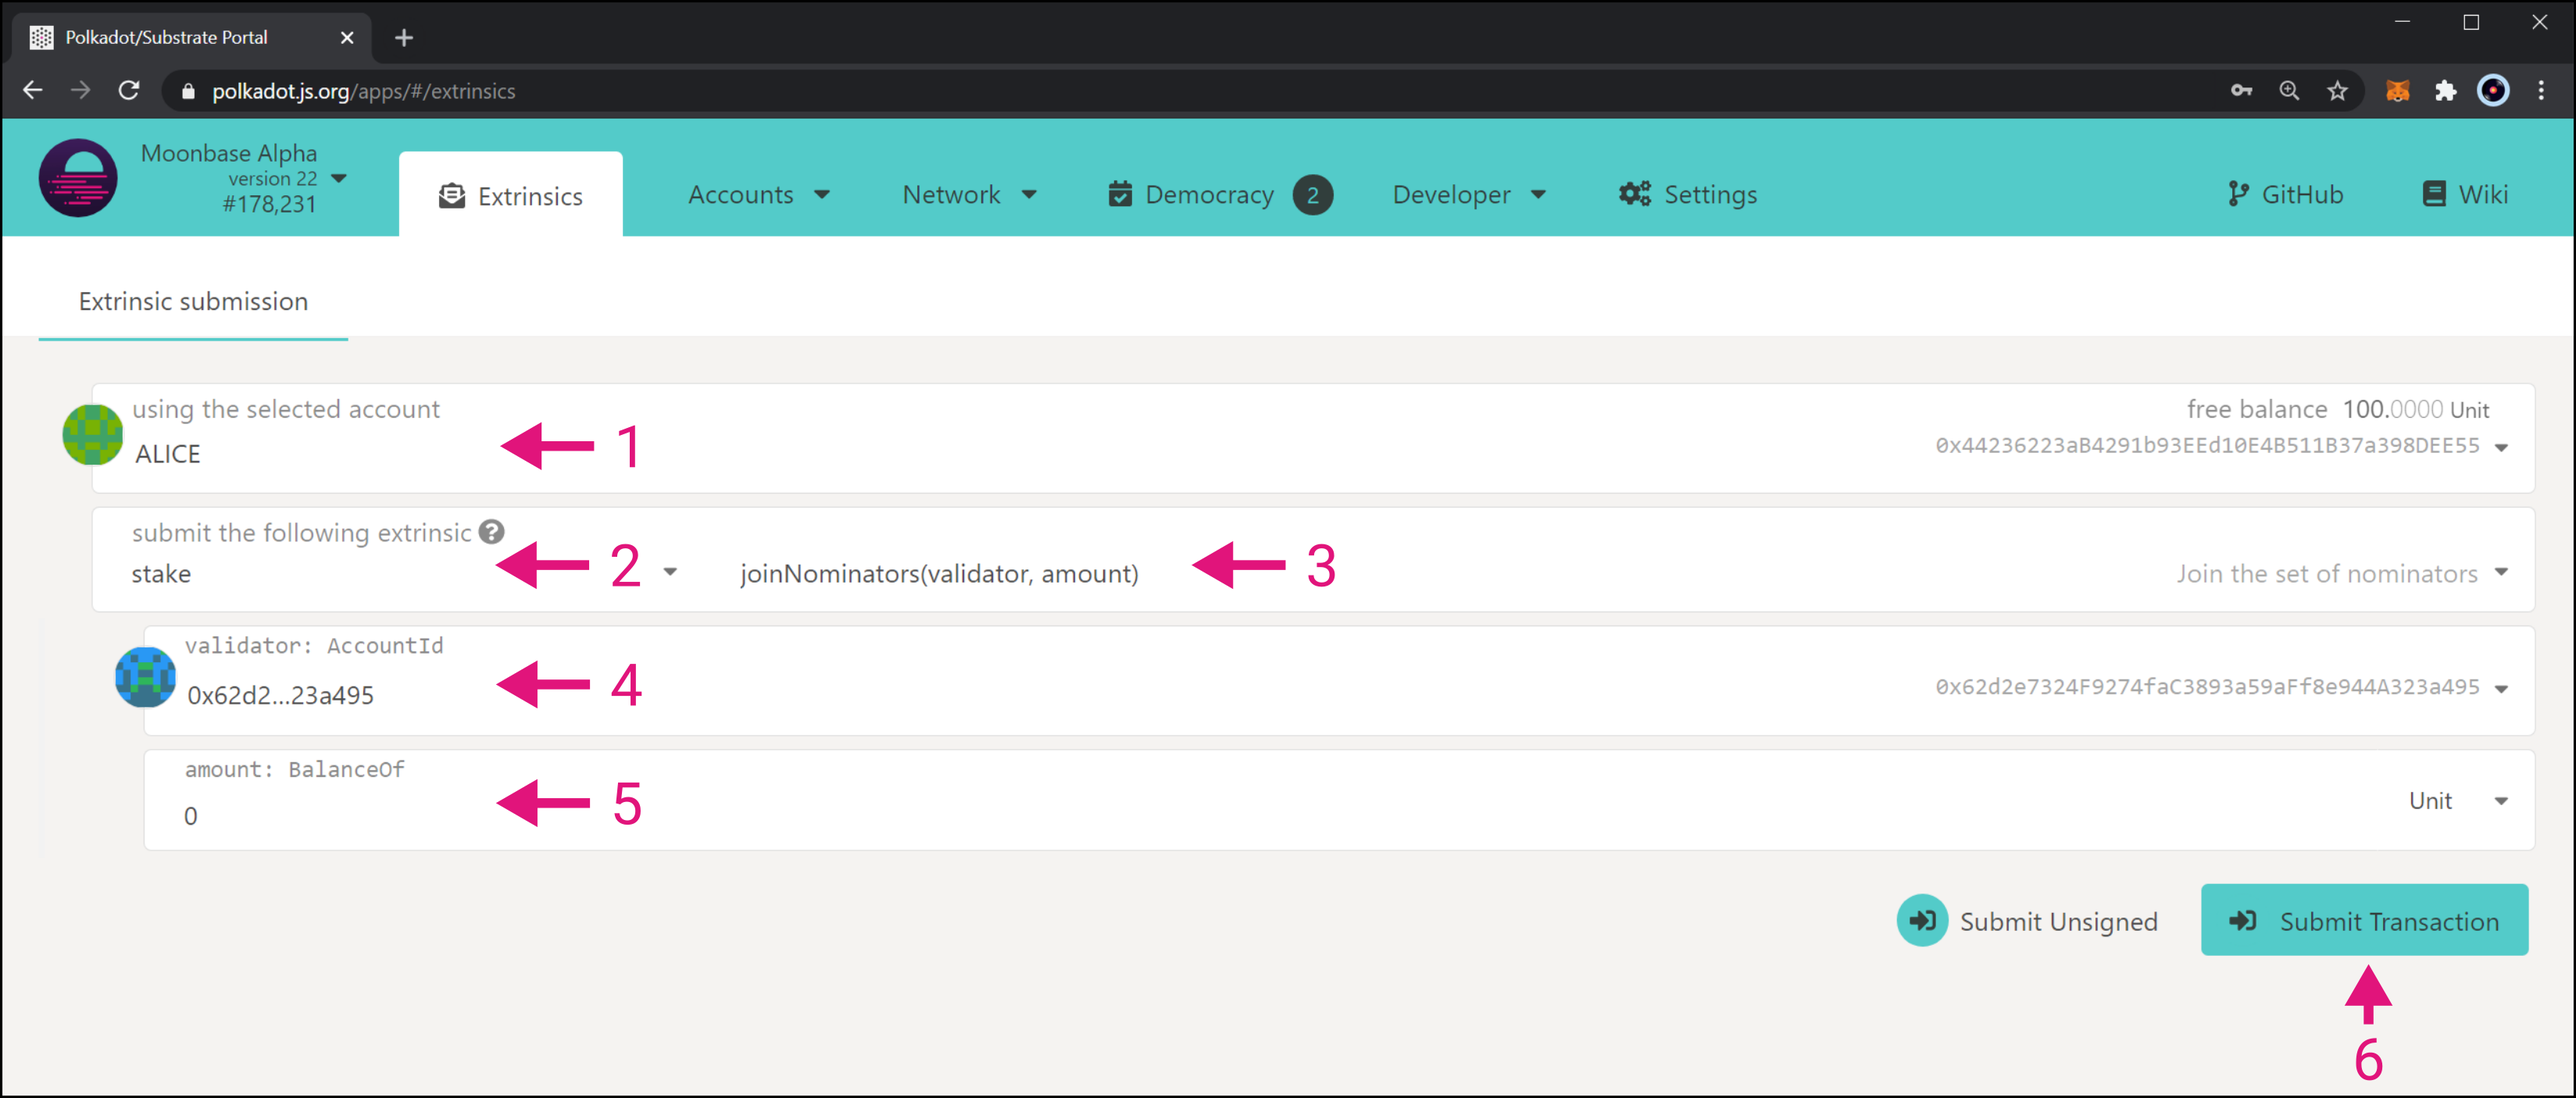
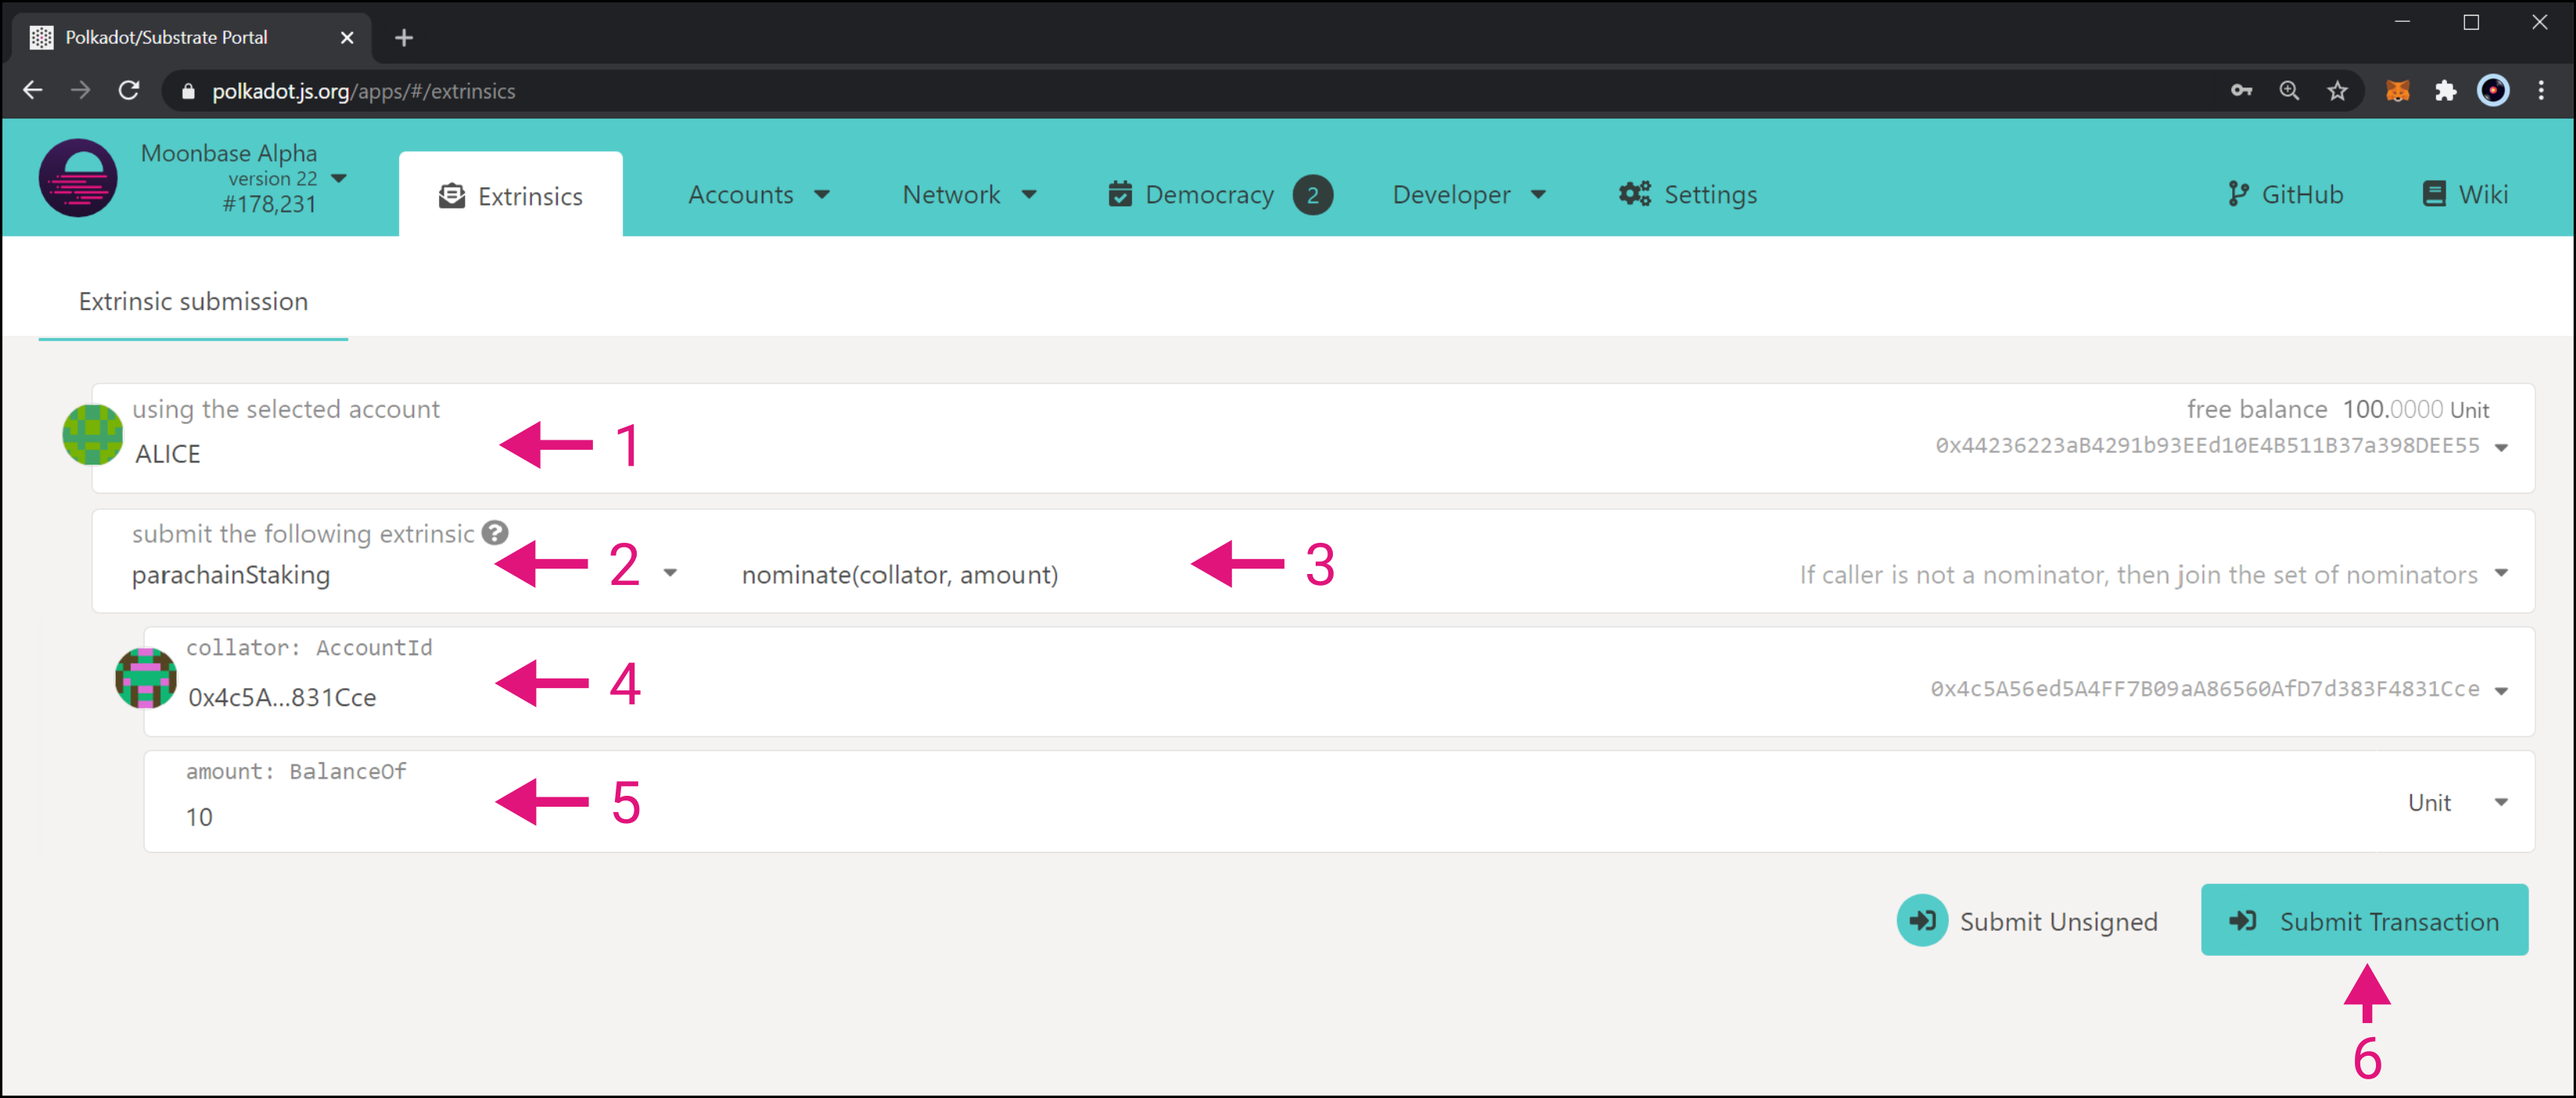
v7 first commit

diff --git a/staking/stake.md b/staking/stake.md
@@ -23,14 +23,13 @@ With the release of [Moonbase Alpha v6](https://github.com/PureStake/moonbeam/re
 
 Currently, for Moonbase Alpha:
 
-|             Variable             |     |                                                  Value                                                  |
-| :------------------------------: | :-: | :-----------------------------------------------------------------------------------------------------: |
-|     Minimum nomination stake     |     |                          {{ networks.moonbase.staking.min_nom_stake }} tokens                           |
-|        Minimum nomination        |     |                          {{ networks.moonbase.staking.min_nom_amount}} tokens                           |
-| Maximum nominators per collators |     |                             {{ networks.moonbase.staking.max_nom_per_col }}                             |
-| Maximum collators per nominator  |     |                             {{ networks.moonbase.staking.max_col_per_nom }}                             |
+|             Variable             |     |                         Value                         |
+| :------------------------------: | :-: | :---------------------------------------------------: |
+|     Minimum nomination stake     |     |     {{ networks.moonbase.staking.min_nom_stake }}     |
+|        Minimum nomination        |     |     {{ networks.moonbase.staking.min_nom_amount}}     | | Maximum nominators per collators |     |     {{ networks.moonbase.staking.max_nom_per_col }}   |
+| Maximum collators per nominator  |     |     {{ networks.moonbase.staking.max_col_per_nom }}   |
 |              Round               |     | {{ networks.moonbase.staking.round_blocks }} blocks ({{ networks.moonbase.staking.round_hours }} hours) |
-|          Bond duration           |     |                            {{ networks.moonbase.staking.bond_lock }} rounds                             |
+|          Bond duration           |     |     {{ networks.moonbase.staking.bond_lock }} rounds  |
 
 ## Extrinsics Definitions
 
@@ -39,13 +38,11 @@ There are many extrinsics related to the staking pallet, so all of them are not 
 !!! note
     Extrinsics might change in the future as the staking pallet is updated.
 
- - **joinNominators** — two inputs: address of collator to nominate and amount. Extrinsic to join the set of nominators and nominate your first collator. The amount must be at least {{ networks.moonbase.staking.min_nom_stake }} tokens
+ - **nominate** — two inputs: address of collator to nominate and amount. Extrinsic to nominate a new collator. The amount must be at least {{ networks.moonbase.staking.min_nom_amount }} tokens
  - **leaveNominators** — no inputs. Extrinsic to leave the set of nominators. Consequently, all ongoing nominations will be revoked
- - **nominateNew** — two inputs: address of collator to nominate and amount. Extrinsic to nominate a new collator after already being part of the set of nominators (read `joinNominators` extrinsic). The amount must be at least {{ networks.moonbase.staking.min_nom_amount }} tokens
  - **nominatorBondLess** — two inputs: address of a nominated collator and amount. Extrinsic to reduce the amount of staked tokens for an already nominated collator. The amount must not decrease your overall total staked below {{ networks.moonbase.staking.min_nom_stake }} tokens
  - **nominatorBondMore** — two inputs: address of a nominated collator and amount. Extrinsic to increase the amount of staked tokens for an already nominated collator
  - **revokeNomination** — one input: address of a nominated collator. Extrinsic to remove an existing nomination
- - **switchNomination** — two inputs: address of an old nominated collator and address of the new collator to nominate. Extrinsic to switch an existing nomination from a nominated collator to a new collator. If you already nominate the new collator, this will increase the nomination amount
 
 ## Retrieving the List of Collators
 
@@ -83,11 +80,11 @@ Currently, everything related to staking needs to be accessed via the "Extrinsic
 
 ![Staking Account](/images/staking/staking-stake-1.png)
 
-Here, provide the following information:
+To nominate a collator, provide the following information:
 
  1. Select the account from which you want to stake your tokens
  2. Choose the pallet you want to interact with. In this case, it is the `stake` pallet
- 3. Choose the extrinsic method to use for the transaction. This will determine the fields that need to fill in the following steps. In this case, it is the `joinNominators` extrinsic
+ 3. Choose the extrinsic method to use for the transaction. This will determine the fields that need to fill in the following steps. In this case, it is the `nominate` extrinsic
  4. Set the collator's address you want to nominate. In this case, it is set to `{{ networks.moonbase.staking.collators.address1 }}`
  5. Set the number of tokens you want to stake
  6. Click the "Submit Transaction" button and sign the transaction
@@ -111,19 +108,13 @@ Here, provide the following information:
 
 In the response, you should see your account (in this case, Alice's account) with a list of the nominations. Each nomination contains the target address of the collator and the amount.
 
-To nominate your next collator, you need to repeat the same process as before, but this time using the `nominateNew` extrinsic (in step 3 of the "Extrinsics" instructions). In this example, Alice will nominate `{{ networks.moonbase.staking.collators.address2 }}` with 10 tokens:
-
-![Staking Nominate New Extrinsic](/images/staking/staking-stake-5.png)
-
-Once the transaction is confirmed, you can verify your new nomination in the "Chain state" option under the "Developer" tab:
-
-![Staking Nominate New Cain State](/images/staking/staking-stake-6.png)
+You can follow the same steps as described to nominate other collators in the network. For example, Alice nominated `{{ networks.moonbase.staking.collators.address2 }}` as well.
 
 ## How to Stop Nominations
 
 If you are already a nominator, you have two options to stop your nominations: using the `revokeNomination` extrinsic to unstake your tokens from a specific collator, or using the `leaveNominators` extrinsic to revoke all ongoing nominations.
 
-This example is a continuation of the previous section, meaning that it assumes that you have at least two active nominations.
+This example is a continuation of the previous section, and assumes that you have at least two active nominations.
 
 You can remove your nomination from a specific collator by navigating to the "Extrinsics" menu under the "Developer" tab. Here, provide the following information:
 

diff --git a/networks/testnet.md b/networks/testnet.md
@@ -18,11 +18,11 @@ In order to collect as much feedback as possible and provide fast issue resoluti
 Moonbase Alpha has the following configuration:
 
  - Moonbeam runs as a parachain connected to a relay chain
- - The parachain has two collators (hosted by PureStake) that are collating blocks
+ - The parachain has two collators (hosted by PureStake) that are collating blocks. External collators can join the network. Only the top {{ networks.moonbase. collator_slots }} collator nodes by stake are chosen in the active set
  - The relay chain hosts three validators (hosted by PureStake) to finalize relay chain blocks. One of them is selected to finalize each block collated by Moonbeam's collators. This setup provides room to expand to a two-parachain configuration in the future
  - There are two RPC endpoints (hosted by PureStake). People can run full nodes to access their own private RPC endpoints
 
-![TestNet Diagram](/images/testnet/Moonbase-Alpha-v5.png)
+![TestNet Diagram](/images/testnet/Moonbase-Alpha-v7.png)
 
 ## Features
 
@@ -64,6 +64,9 @@ The following features are available:
     - Updated to the latest version of [Frontier RPC](https://github.com/paritytech/frontier), which increases EVM execution efficiency by a factor of 5
     - The gas limit has been bump to 15M per block, with a 13M per transaction limit
 
+??? release v7 "_April_ 2021_"      
+    - Some cool stuff TODO
+
 ### Release Notes
 
 For more details regarding the updates of Moonbase Alpha, please refer to the following release notes:
@@ -73,6 +76,7 @@ For more details regarding the updates of Moonbase Alpha, please refer to the fo
  - [Moonbase Alpha v4](https://github.com/PureStake/moonbeam/releases/tag/v0.4.0)
  - [Moonbase Alpha v5](https://github.com/PureStake/moonbeam/releases/tag/v0.5.0)
  - [Moonbase Alpha v6](https://github.com/PureStake/moonbeam/releases/tag/v0.6.0)
+ - [Moonbase Alpha v7](https://github.com/PureStake/moonbeam/releases/tag/v0.7.0)
 
 ### Future Releases
 
